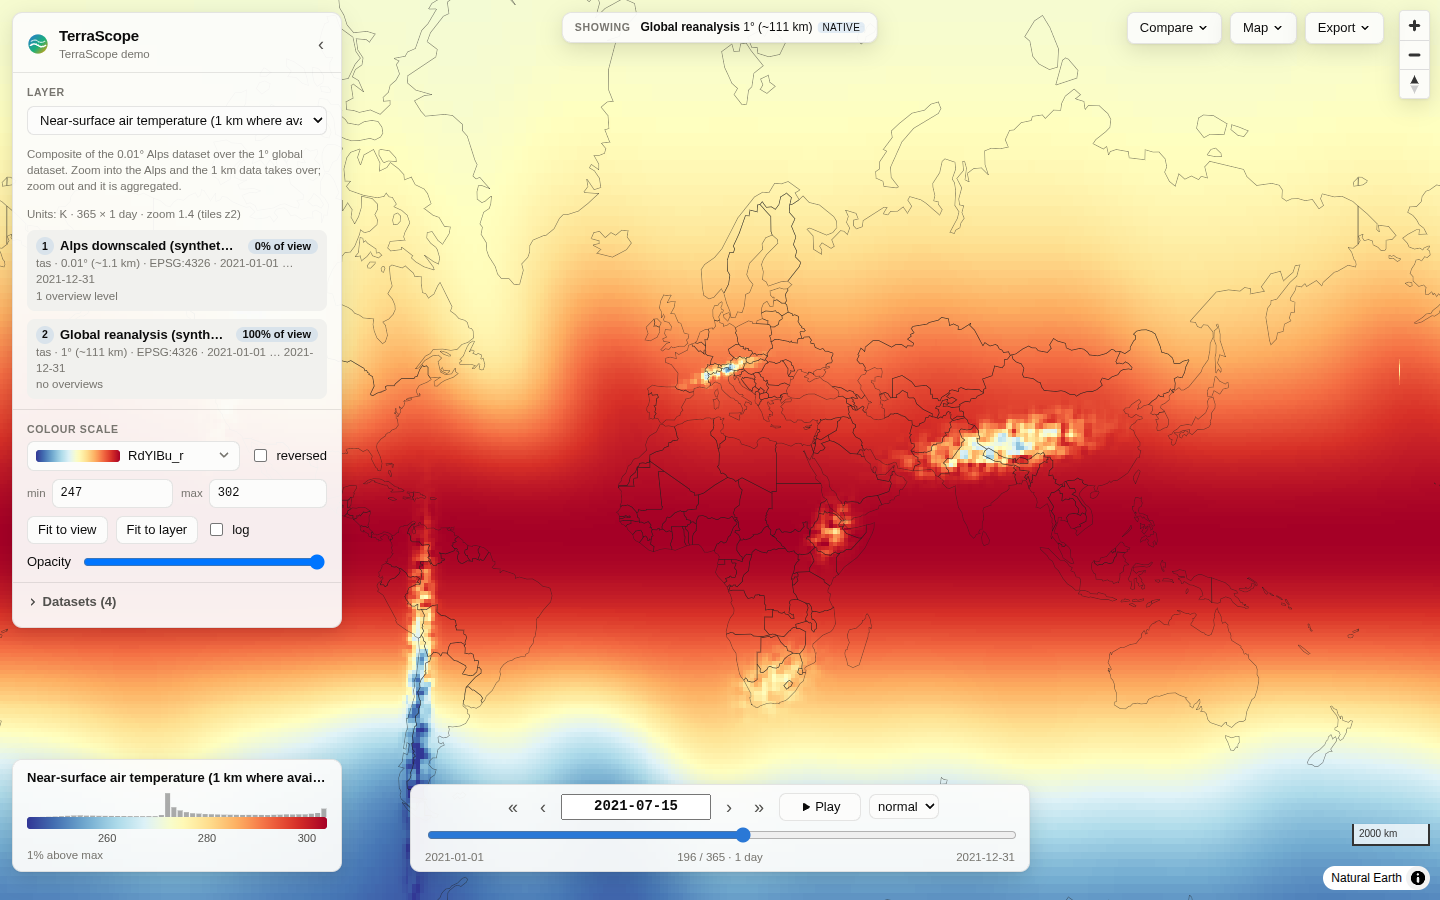
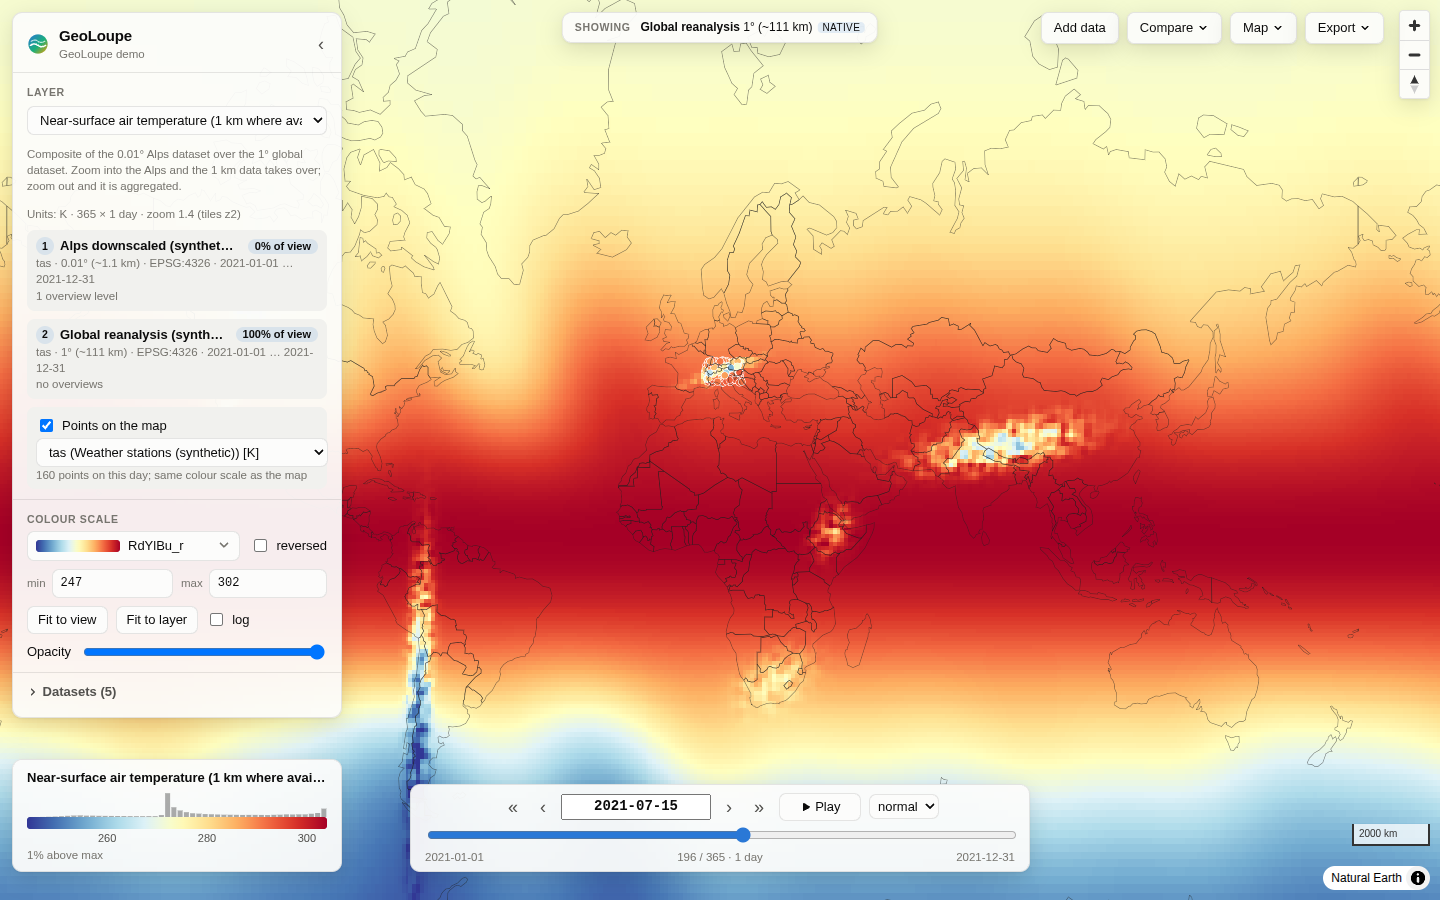
Retake all screenshots after the rename to GeoLoupe
The README and demo images still showed the old name in the app. All 11
are retaken from the running gallery and demo, and two show new
features: a CMIP6 climate model ocean on its curvilinear grid (August
2014 minus August 1850) and the Sentinel-2 STAC mosaic of the Western
Alps. The heatwave image now shows the provinces overlay and its hover.

diff --git a/README.md b/README.md
@@ -125,9 +125,10 @@ All from `geoloupe gallery`:
 
 | | |
 |---|---|
-| ![Heatwave](docs/images/heatwave.jpg) **Europe's heatwave, 18 July 2023, 14 UTC.** ERA5 2 m temperature, one of 761 160 hourly steps read straight from Google Cloud. | ![Atmospheric river](docs/images/atmospheric-river.jpg) **An atmospheric river reaches California, 9 January 2023.** Total column water vapour. |
-| ![True and false colour](docs/images/true-false-colour.jpg) **Sentinel-2, true vs false colour.** Two synchronised maps; the false-colour side (near infrared as red) keeps its own colour scale. | ![Land cover](docs/images/landcover.jpg) **ESA WorldCover around Lake Geneva.** Class colours from the file's palette, names from the config, shares of the view in the legend. |
+| ![Heatwave](docs/images/heatwave.jpg) **Europe's heatwave, 18 July 2023, 14 UTC.** ERA5 2 m temperature, one of 761 160 hourly steps read straight from Google Cloud, with provinces as an overlay: the hover shows the region and the value. | ![Atmospheric river](docs/images/atmospheric-river.jpg) **An atmospheric river reaches California, 9 January 2023.** Total column water vapour. |
+| ![True and false colour](docs/images/true-false-colour.jpg) **Sentinel-2, true vs false colour.** Two synchronised maps of a STAC mosaic; the false-colour side (near infrared as red) keeps its own colour scale. | ![Land cover](docs/images/landcover.jpg) **ESA WorldCover around Lake Geneva.** Class colours from the file's palette, names from the config, shares of the view in the legend. |
 | ![Elevation](docs/images/elevation.jpg) **The Matterhorn in the Copernicus DEM (30 m).** Six 1° tiles form one layer, with ERA5's orography outside them. | ![Stations](docs/images/stations.jpg) **GHCN-Daily stations, 18 July 2023.** Click one for its whole daily record. |
+| ![Ocean warming](docs/images/ocean-warming.jpg) **165 years of ocean warming in a climate model.** GFDL-ESM4 (CMIP6) sea surface temperature on its own curvilinear (tripolar) grid, August 2014 minus August 1850. | ![Western Alps](docs/images/alps-stac.jpg) **The Western Alps from space.** The 10 least cloudy Sentinel-2 scenes of August 2023, found with a STAC search and shown as one seamless mosaic. |
 
 The synthetic demo (`geoloupe demo-data demo && geoloupe serve demo/demo.yaml`) works offline
 and shows compositing, pressure levels and a LAEA-projected grid ([images](docs/images/)).
